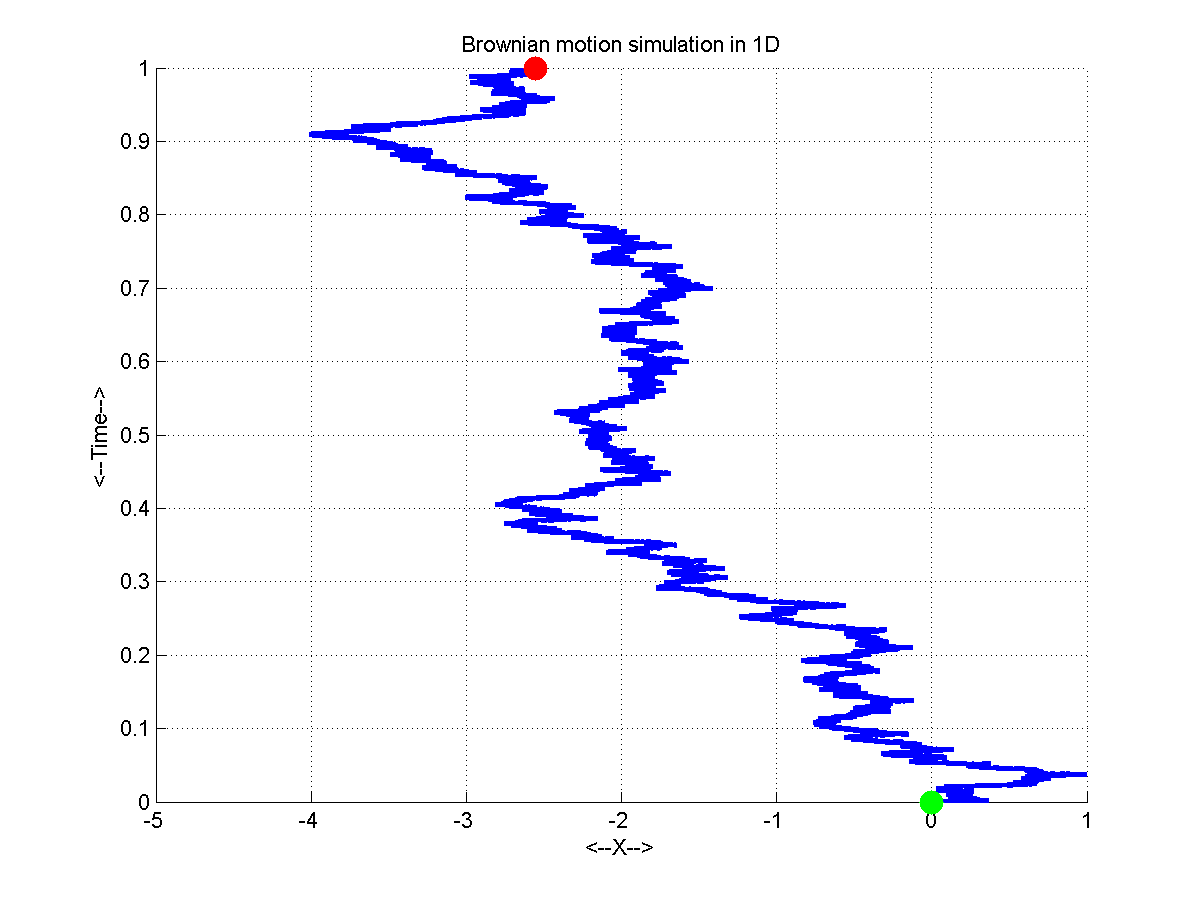
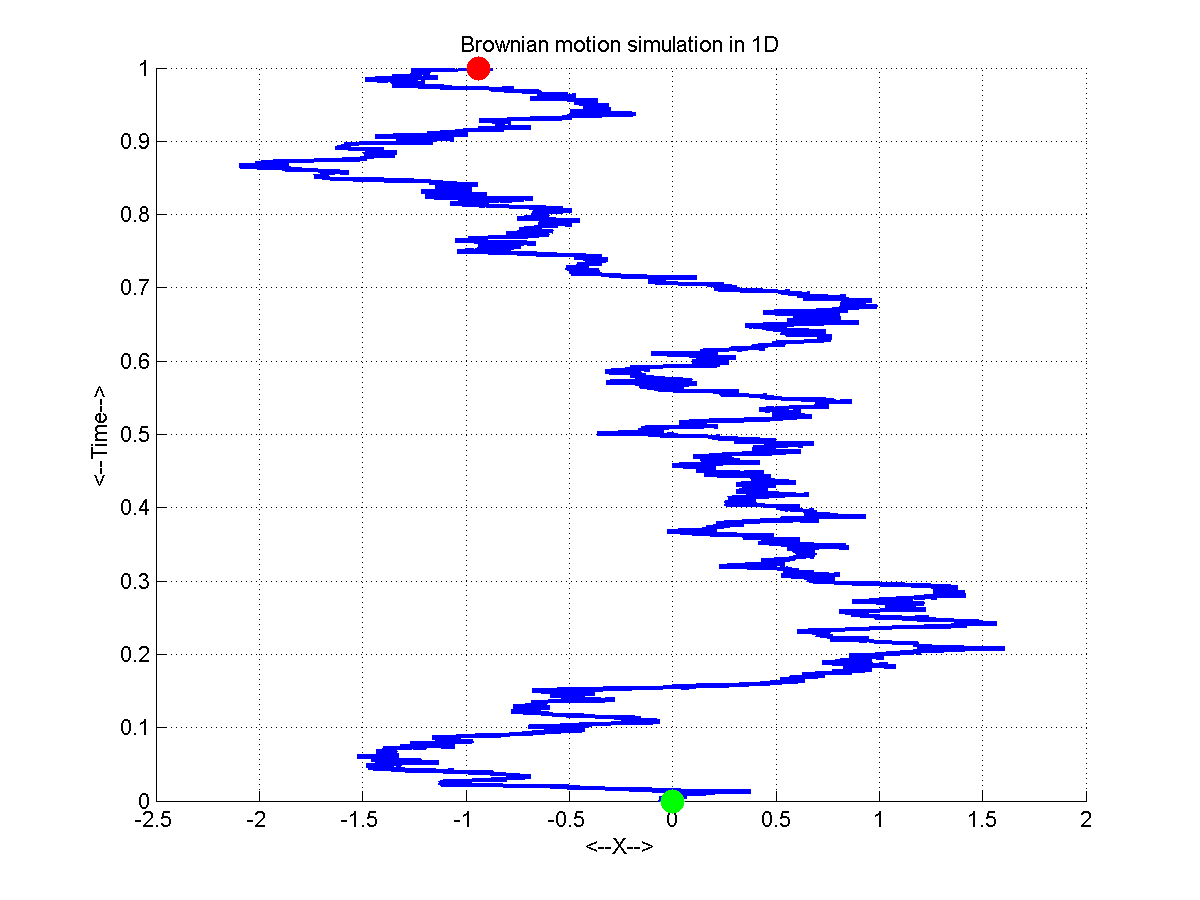
symulacja ułamkowych ruchów browna w wielu wymiarach. Dwie metody: fbm.m - wydaje mi się bardziej czytelna - użyłem własnego Choleskiego i sumowania na końcu fbm_faster.m - użyłem funkcji matlabowych zamiast nich.

diff --git a/fbm_faster.m b/fbm_faster.m
@@ -1,11 +1,11 @@
 %http://en.wikipedia.org/wiki/Normal_distribution#Standard_normal_distribution
 %http://www2.isye.gatech.edu/~adieker3/fbm/thesisold.pdf
 %parameters
-n = 100;
+n = 1000;
 m = 3;
 T = 1;
 t = T/n:T/(n + 1):T;
-H = 0.8;
+H = 0.5;
 %variance-covariance matrix
 gamma = zeros(n,n);
 for j=1:n
@@ -15,19 +15,11 @@ for j=1:n
 end
 %cholesky decomposition
 %L - standard deviation matrix
-[L,U] = Cholesky(gamma);
+L = chol(gamma, 'lower');
 %n values of standard Gaussian distribution
 P = normrnd(0,1,n,m);
 %quite randomly, from the second link
 L1 = L * P;
-%X = cumsum ( L1(1:n,1:m), 2 );
-X = zeros(n,m);
-for l=1:m
-    for j=1:n
-        for k = 1:n
-            X(j,l) = X(j,l) + L(j,k) * P(k,l); 
-        end
-    end
-end
+X = cumsum ( L1(1:n,1:m), 2 );
 plot(t,X);
 brownian_motion_display(m,n,X');

diff --git a/brownian_motion_simulation_test.m b/brownian_motion_simulation_test.m
@@ -18,15 +18,6 @@ function brownian_motion_simulation_test ( )
 %  Estimate the average displacement of the particle from the origin
 %  as a function of time.
 %
-  for m = 1 : 3
-    k = 40;
-    n = 1001;
-    d = 10.0;
-    t = 1.0;
-
-    dsq = brownian_displacement_simulation ( k, n, m, d, t );
-    brownian_displacement_display ( k, n, m, d, t, dsq );
-  end
 %
 %  Terminate.
 %
@@ -34,7 +25,6 @@ function brownian_motion_simulation_test ( )
   fprintf ( 1, 'BROWNIAN_MOTION_SIMULATION_TEST\n' );
   fprintf ( 1, '  Normal end of execution.\n' );
   fprintf ( 1, '\n' );
-  timestamp ( );
 
   return
 end
